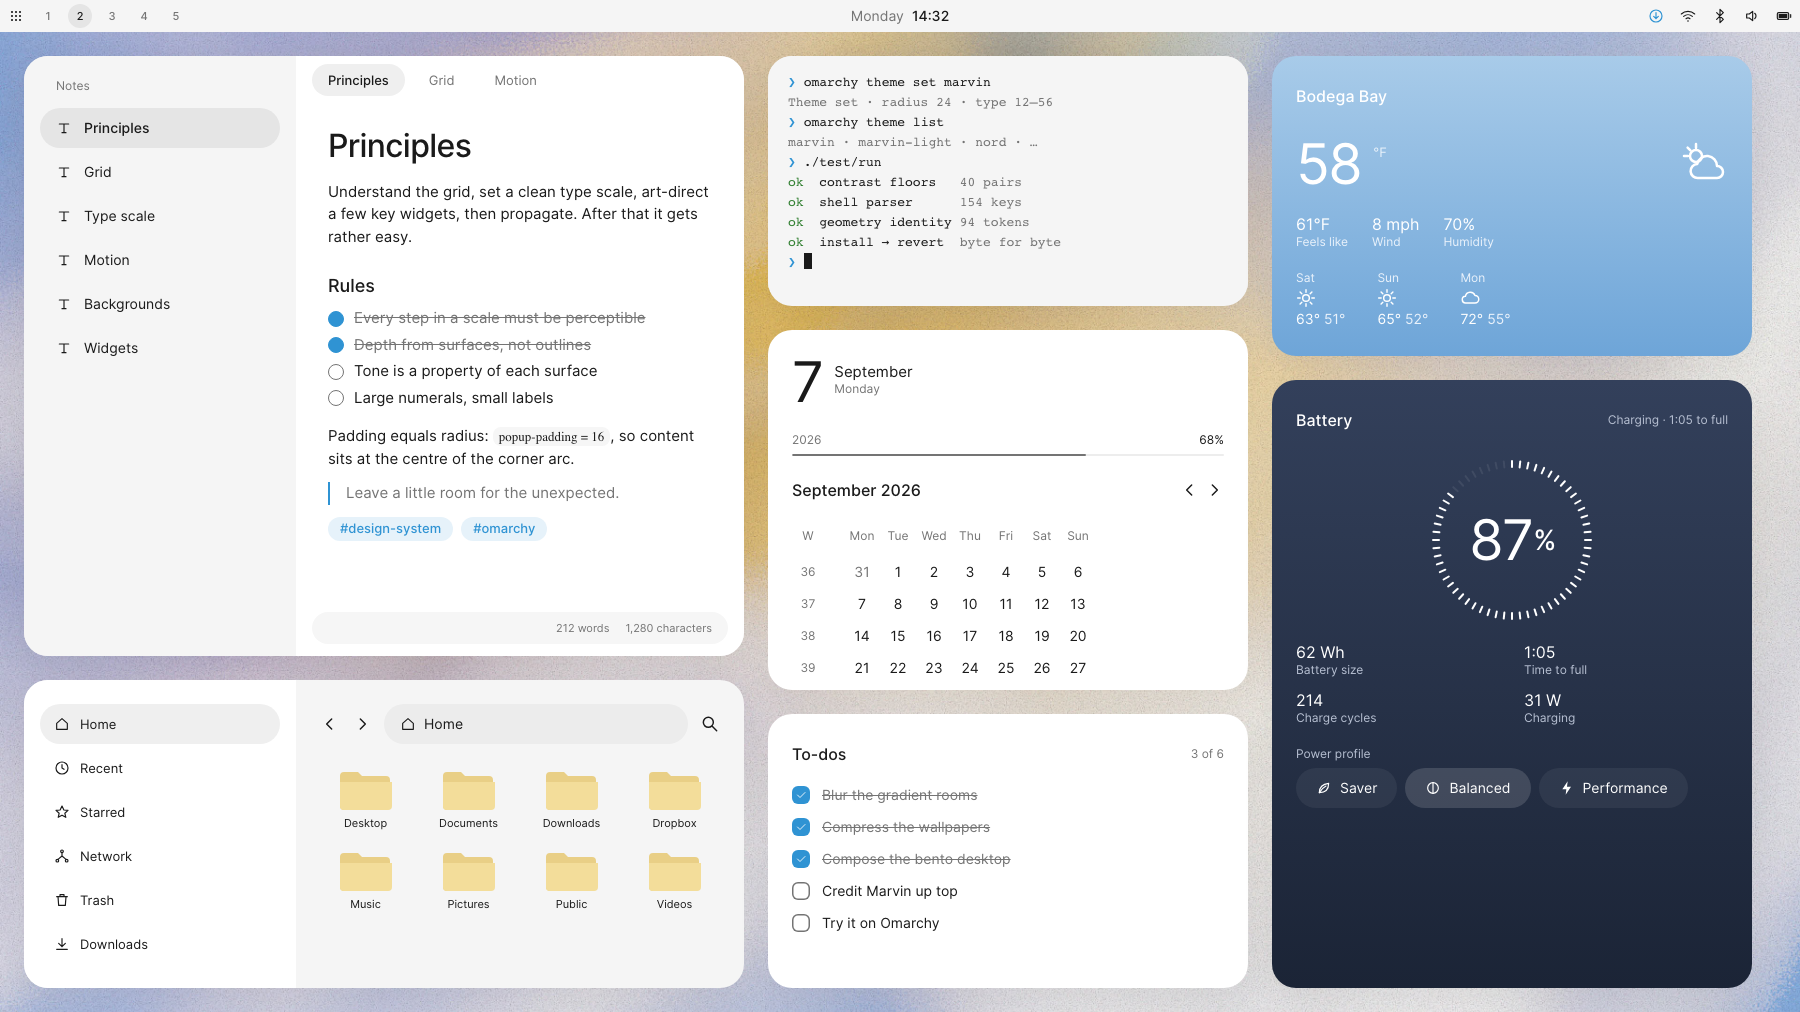
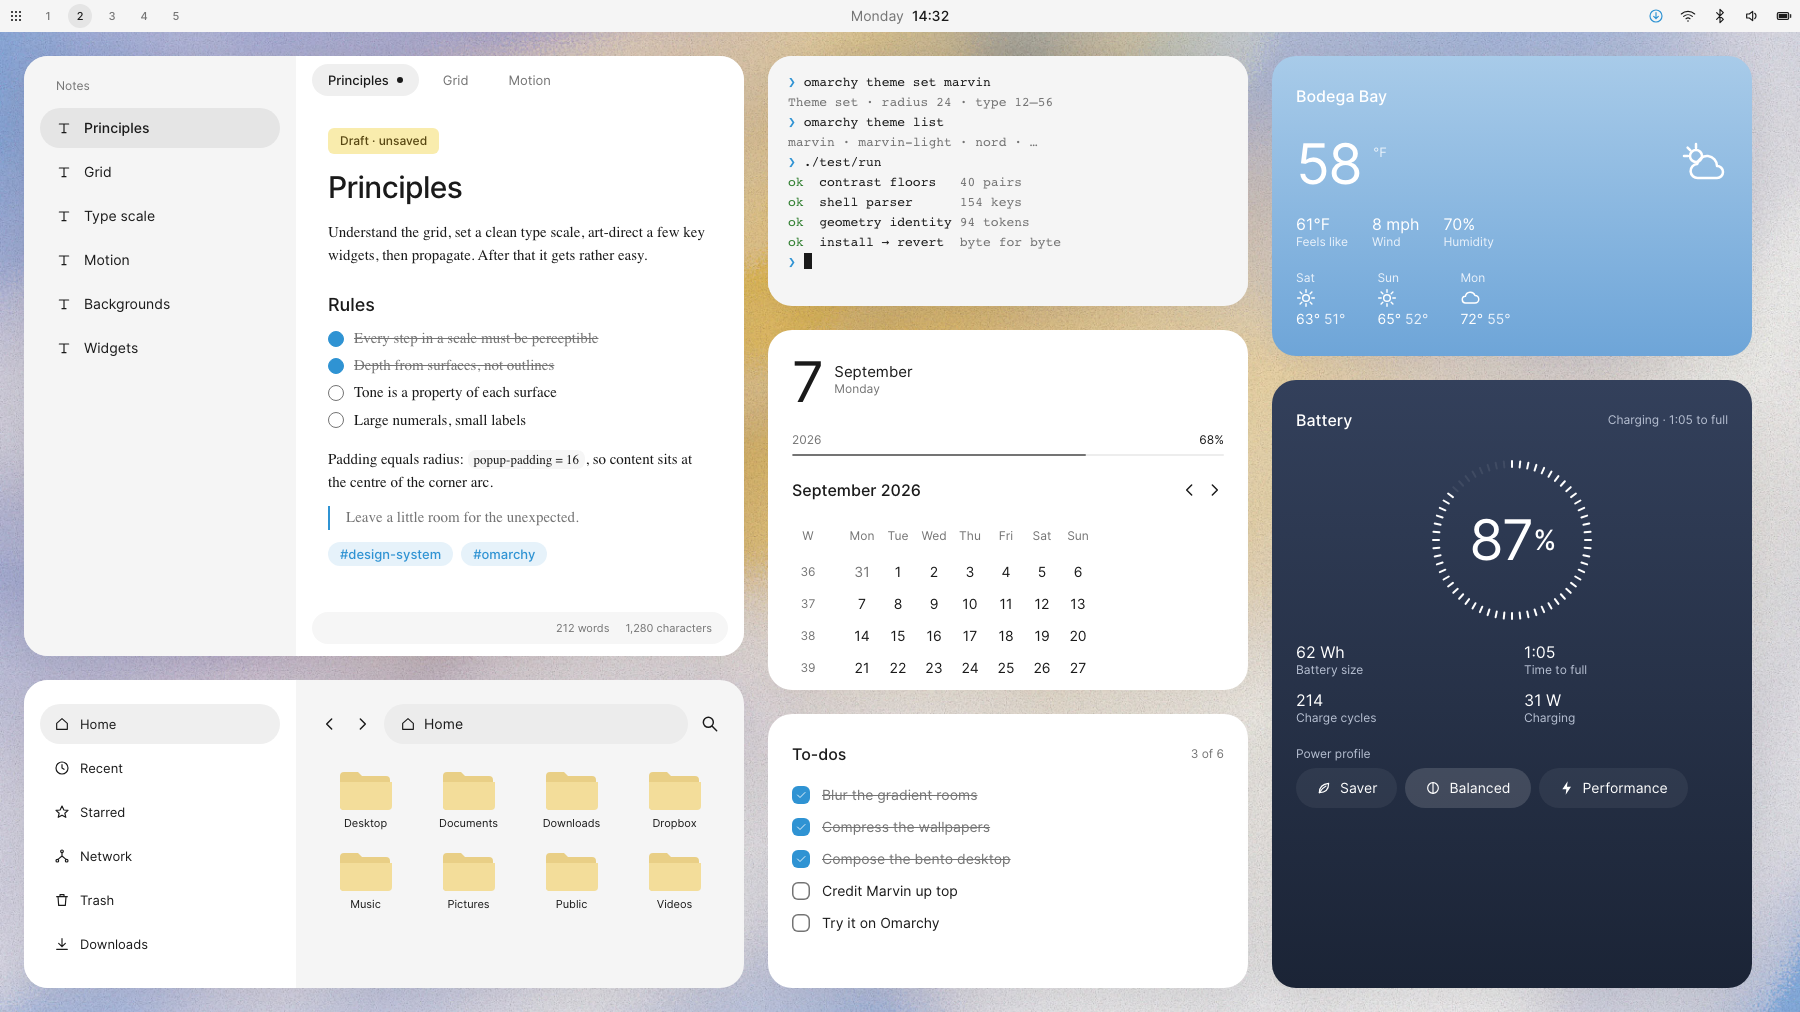
Obsidian: serif body, draft chip and pill tags — and show it in the examples
obsidian.css now cascades the full design language: frontmatter properties are a
hairline surface with muted keys and pill values (a `status: draft` or a tag
reads like an inline tag), and an unsaved tab gets a soft accent mark.

The composed-desktop Notes tile in the README examples now renders the real
themed Obsidian — Libre Baskerville serif body over Inter headings, a
"Draft · unsaved" chip, an unsaved dot on the active tab, and accent pill tags —
instead of a sans-serif approximation. The example matches the actual theme.

Changed region(s): [[0.1556, 0.1225, 0.4044, 0.582], [0.28, 0.0613, 0.3111, 0.0919]]

diff --git a/obsidian.css b/obsidian.css
@@ -152,3 +152,13 @@ input[type=text]:focus, input[type=search]:focus, .prompt-input:focus { backgrou
 /* Callouts are tinted surfaces with a hairline, never a coloured band. */
 .callout { border: 1px solid rgba(214,214,214, .10); border-radius: 24px; padding: 24px; }
 .callout .callout-title { font-family: var(--font-interface-theme); font-weight: 500; }
+
+/* Frontmatter properties: a hairline surface, muted keys, and pill values — a
+   `status: draft` or a tag reads with the same shape as an inline tag. */
+.metadata-container { border: 1px solid rgba(214,214,214, .10); border-radius: 16px; padding: 8px 16px; }
+.metadata-property { border: none; }
+.metadata-property-key-input { color: #8c8c8c; font-weight: 400; }
+.metadata-property-value .multi-select-pill { border-radius: 16px; background: rgba(109,184,238, .12); color: #6db8ee; }
+
+/* Unsaved changes: a soft accent mark on the tab, not a colour shift. */
+.workspace-tab-header.mod-dirty .workspace-tab-header-status-icon { color: #6db8ee; }

diff --git a/light/obsidian.css b/light/obsidian.css
@@ -152,3 +152,13 @@ input[type=text]:focus, input[type=search]:focus, .prompt-input:focus { backgrou
 /* Callouts are tinted surfaces with a hairline, never a coloured band. */
 .callout { border: 1px solid rgba(26,26,26, .10); border-radius: 24px; padding: 24px; }
 .callout .callout-title { font-family: var(--font-interface-theme); font-weight: 500; }
+
+/* Frontmatter properties: a hairline surface, muted keys, and pill values — a
+   `status: draft` or a tag reads with the same shape as an inline tag. */
+.metadata-container { border: 1px solid rgba(26,26,26, .10); border-radius: 16px; padding: 8px 16px; }
+.metadata-property { border: none; }
+.metadata-property-key-input { color: #747474; font-weight: 400; }
+.metadata-property-value .multi-select-pill { border-radius: 16px; background: rgba(47,147,211, .12); color: #1a72ad; }
+
+/* Unsaved changes: a soft accent mark on the tab, not a colour shift. */
+.workspace-tab-header.mod-dirty .workspace-tab-header-status-icon { color: #1a72ad; }

diff --git a/tools/previews/build.py b/tools/previews/build.py
@@ -296,7 +296,7 @@ body{{background:url('file://{t["wall"]}') center/cover}}
 .obs{{display:grid;grid-template-columns:272px 1fr;height:100%}}.obs .sb{{background:var(--bg);padding:24px 16px;display:flex;flex-direction:column;gap:4px}}
 .obs .vault{{font-size:12px;color:var(--muted);padding:0 16px 12px}}.obs .sb .si{{height:40px;border-radius:20px;padding:0 16px;display:flex;align-items:center;gap:12px}}.obs .sb .si.on{{background:rgba(var(--fg-rgb),var(--a3));font-weight:500}}
 .obs .ed{{background:var(--raised);position:relative;padding:0}}.obs .tabs{{height:48px;display:flex;align-items:center;gap:8px;padding:8px 16px}}.obs .tab{{height:32px;padding:0 16px;border-radius:16px;display:flex;align-items:center;color:var(--muted)}}.obs .tab.on{{background:rgba(var(--fg-rgb),var(--a3));color:var(--fg);font-weight:500}}
-.obs .doc{{padding:24px 32px;max-width:640px;font-size:15px;line-height:1.5}}.obs h1{{font-size:32px;font-weight:500;letter-spacing:-.02em;margin:0 0 16px;line-height:1.15}}.obs h2{{font-size:18px;font-weight:500;margin:24px 0 8px}}.obs p{{margin:0 0 12px}}
+.obs .doc{{padding:24px 32px;max-width:640px;font-size:15px;line-height:1.55;font-family:'Libre Baskerville','Noto Serif',serif}}.obs h1,.obs h2,.obs .tag,.obs .draft{{font-family:Inter,sans-serif}}.obs h1{{font-size:30px;font-weight:500;letter-spacing:-.02em;margin:0 0 16px;line-height:1.15}}.obs h2{{font-size:18px;font-weight:500;margin:24px 0 8px}}.obs p{{margin:0 0 12px}}.obs .draft{{align-self:flex-start;height:26px;padding:0 12px;border-radius:6px;display:inline-flex;align-items:center;font-size:12px;font-weight:500;background:var(--chip2-fill);color:var(--chip2-text);margin:0 0 16px}}.obs .tab.on .dot{{width:6px;height:6px;border-radius:3px;background:var(--fg);margin-left:8px;display:inline-block}}
 .obs .chk{{display:flex;align-items:center;gap:10px;margin:4px 0}}.obs .chk i{{width:16px;height:16px;border-radius:8px;border:1.5px solid var(--muted);display:inline-block}}.obs .chk i.d{{background:var(--accent);border-color:var(--accent)}}.obs .chk s{{color:var(--muted)}}
 .obs .tag{{display:inline-flex;align-items:center;height:24px;padding:0 12px;border-radius:16px;background:rgba(var(--acc-rgb),.12);color:var(--accent);font-size:13px;font-weight:500;margin-right:8px}}
 .obs code{{font-family:'JetBrains Mono';font-size:13px;background:rgba(var(--fg-rgb),var(--a1));border-radius:8px;padding:2px 6px}}.obs blockquote{{margin:12px 0;padding-left:16px;border-left:2px solid var(--accent);color:var(--muted)}}
@@ -312,8 +312,8 @@ body{{background:url('file://{t["wall"]}') center/cover}}
 {bar(t)}
 <div class="tile" style="left:24px;top:56px;width:720px;height:600px"><div class="win focus">
   <div class="obs"><div class="sb"><div class="vault">Notes</div>{obs_side}</div>
-  <div class="ed"><div class="tabs"><div class="tab on">Principles</div><div class="tab">Grid</div><div class="tab">Motion</div></div>
-  <div class="doc"><h1>Principles</h1>
+  <div class="ed"><div class="tabs"><div class="tab on">Principles<span class="dot"></span></div><div class="tab">Grid</div><div class="tab">Motion</div></div>
+  <div class="doc"><div class="draft">Draft · unsaved</div><h1>Principles</h1>
   <p>Understand the grid, set a clean type scale, art-direct a few key widgets, then propagate. After that it gets rather easy.</p>
   <h2>Rules</h2>
   <div class="chk"><i class="d"></i><s>Every step in a scale must be perceptible</s></div>

diff --git a/tools/appcss.py b/tools/appcss.py
@@ -178,6 +178,16 @@ input[type=text]:focus, input[type=search]:focus, .prompt-input:focus {{ backgro
 /* Callouts are tinted surfaces with a hairline, never a coloured band. */
 .callout {{ border: 1px solid rgba({rgb(fg)}, .10); border-radius: 24px; padding: 24px; }}
 .callout .callout-title {{ font-family: var(--font-interface-theme); font-weight: 500; }}
+
+/* Frontmatter properties: a hairline surface, muted keys, and pill values — a
+   `status: draft` or a tag reads with the same shape as an inline tag. */
+.metadata-container {{ border: 1px solid rgba({rgb(fg)}, .10); border-radius: 16px; padding: 8px 16px; }}
+.metadata-property {{ border: none; }}
+.metadata-property-key-input {{ color: {muted}; font-weight: 400; }}
+.metadata-property-value .multi-select-pill {{ border-radius: 16px; background: rgba({rgb(accent)}, .12); color: {atext}; }}
+
+/* Unsaved changes: a soft accent mark on the tab, not a colour shift. */
+.workspace-tab-header.mod-dirty .workspace-tab-header-status-icon {{ color: {atext}; }}
 """
 
 PICKER = """@define-color foreground {fg};
